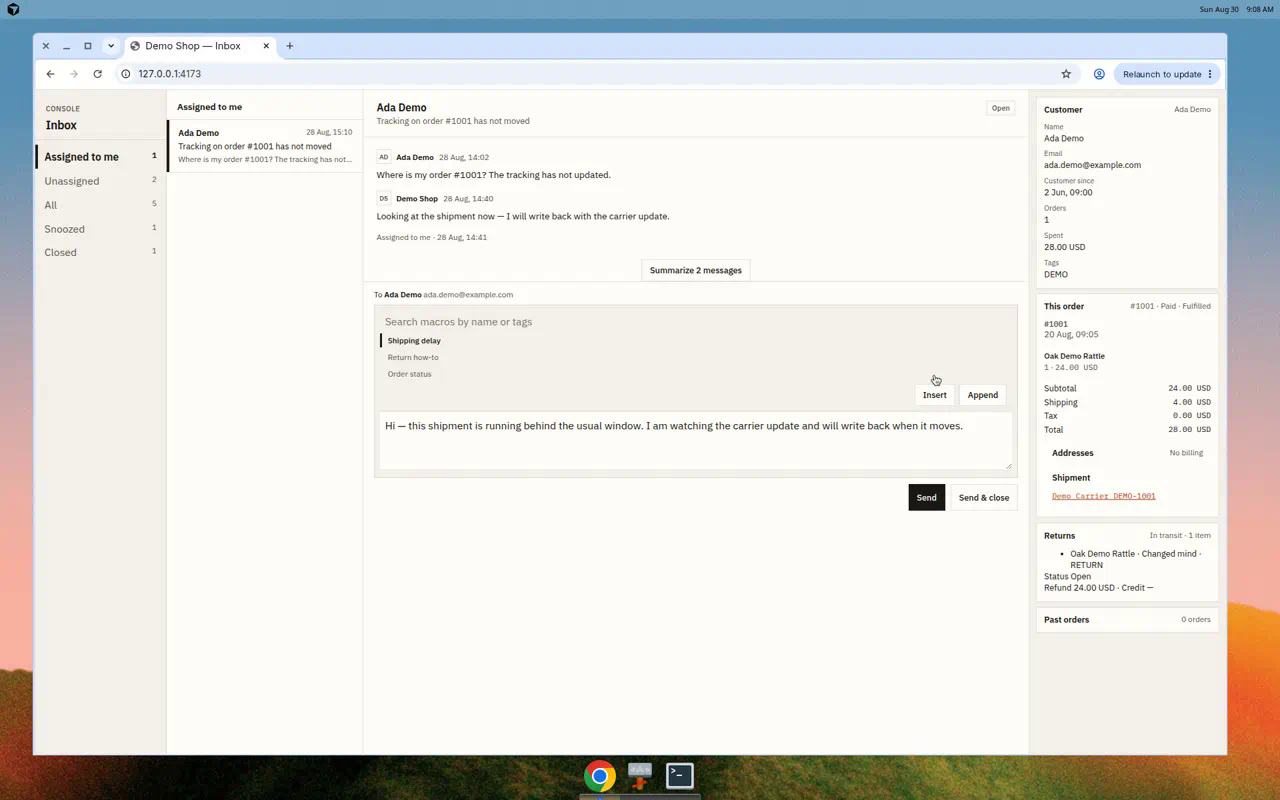
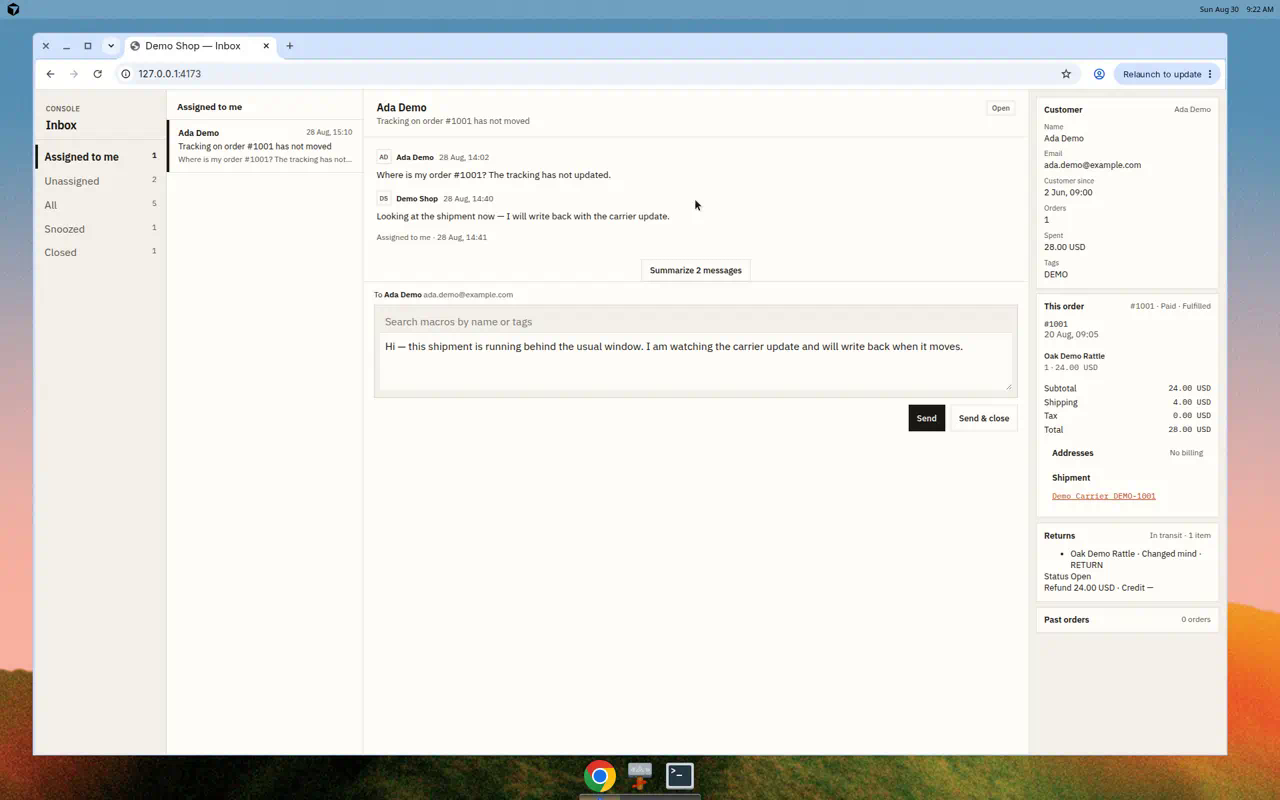
Close macro search after Replace and grey empty Send.
After Replace/Append the picker closes so the after-Insert shot is
the filled textarea, not an open list. Empty Send is grey/disabled
(is-disabled + test). Macro verb is Replace; draft-strip Insert stays.

Changed region(s): [[0.3125, 0.4688, 0.7812, 0.5625], [0.2812, 0.4062, 0.75, 0.4688], [0.6875, 0.5938, 0.7812, 0.6562]]

diff --git a/console-src/inbox/js/tissues/composer.js b/console-src/inbox/js/tissues/composer.js
@@ -20,7 +20,8 @@ export function composeMacroText(macro, currentBody = "", mode = "replace") {
  * Composer tissue.
  * In: `{ ticket, draft, summarize, macros, body }`
  * Out: body / insert / discard / send. AI strip and macros never Send.
- * Macro search lives inside the composer box. Insert replaces; Append adds.
+ * Macro search lives inside the composer box. Replace overwrites; Append adds.
+ * Draft-strip Insert stays named Insert.
  */
 export function createComposerTissue({ mailbox }) {
   let model = {
@@ -32,6 +33,7 @@ export function createComposerTissue({ mailbox }) {
     strip: "",
     query: "",
     selectedMacroId: "",
+    searchOpen: true,
   };
 
   function project(input) {
@@ -44,6 +46,7 @@ export function createComposerTissue({ mailbox }) {
       strip: input.strip ?? input.draft ?? "",
       query: input.query || "",
       selectedMacroId: input.selectedMacroId || "",
+      searchOpen: input.searchOpen ?? true,
     };
   }
 
@@ -102,25 +105,30 @@ export function createComposerTissue({ mailbox }) {
           </div>
         </div>`
       : "";
+    const idle = sendDisabled(next);
     const sendClose = hideSendAndClose(next)
       ? ""
-      : `<button type="button" class="btn-hairline" data-send-close ${sendDisabled(next) ? "disabled" : ""}>Send &amp; close</button>`;
+      : `<button type="button" class="btn-hairline${idle ? " is-disabled" : ""}" data-send-close ${idle ? "disabled" : ""}>Send &amp; close</button>`;
     const macroLocked = selected ? "" : "disabled";
+    const searchOpen = next.searchOpen !== false;
+    const picker = searchOpen
+      ? `<div class="macro-list" data-macro-list>${macroItems || `<p class="macro-empty">No macros match.</p>`}</div>
+        <div class="macro-actions">
+          <button type="button" class="btn-quiet" data-macro-insert ${macroLocked}>Replace</button>
+          <button type="button" class="btn-quiet" data-macro-append ${macroLocked}>Append</button>
+        </div>`
+      : "";
     return `<section class="composer" data-composer>
       ${peek}
       <div class="composer-to"><span>To</span> <strong>${esc(to.name)}</strong> <span class="mute">${esc(to.email)}</span></div>
-      <div class="composer-box">
+      <div class="composer-box" data-macro-open="${searchOpen ? "true" : "false"}">
         <input class="macro-search" data-macro-search type="search" placeholder="Search macros by name or tags" value="${esc(next.query)}" aria-label="Search macros">
-        <div class="macro-list" data-macro-list>${macroItems || `<p class="macro-empty">No macros match.</p>`}</div>
-        <div class="macro-actions">
-          <button type="button" class="btn-quiet" data-macro-insert ${macroLocked}>Insert</button>
-          <button type="button" class="btn-quiet" data-macro-append ${macroLocked}>Append</button>
-        </div>
+        ${picker}
         ${strip}
         <textarea data-body placeholder="Write the reply. The human always sends.">${esc(next.body)}</textarea>
       </div>
       <div class="composer-actions">
-        <button type="button" class="btn-ink btn-send" data-send ${sendDisabled(next) ? "disabled" : ""}>Send</button>
+        <button type="button" class="btn-ink btn-send${idle ? " is-disabled" : ""}" data-send ${idle ? "disabled" : ""}>Send</button>
         ${sendClose}
       </div>
     </section>`;
@@ -136,8 +144,14 @@ export function createComposerTissue({ mailbox }) {
     if (!macro) return;
     const text = composeMacroText(macro, model.body, mode);
     emitBody(text);
+    model = {
+      ...model,
+      body: text,
+      searchOpen: false,
+      query: "",
+      selectedMacroId: "",
+    };
     mailbox.publish(MAILBOX_TOPICS.COMPOSER_INSERT, { text, mode, macroId: macro.id });
-    model = { ...model, body: text };
   }
 
   function mount(el) {
@@ -145,7 +159,7 @@ export function createComposerTissue({ mailbox }) {
     el.oninput = (event) => {
       if (event.target.matches("[data-body]")) emitBody(event.target.value);
       if (event.target.matches("[data-macro-search]")) {
-        model = { ...model, query: event.target.value };
+        model = { ...model, query: event.target.value, searchOpen: true };
         const keep = event.target;
         const start = keep.selectionStart;
         el.innerHTML = render(model);
@@ -157,6 +171,13 @@ export function createComposerTissue({ mailbox }) {
       }
     };
     el.onclick = (event) => {
+      if (event.target.matches?.("[data-macro-search]") && model.searchOpen === false) {
+        model = { ...model, searchOpen: true };
+        el.innerHTML = render(model);
+        const again = el.querySelector("[data-macro-search]");
+        if (again) again.focus();
+        return;
+      }
       const row = event.target.closest("[data-macro]");
       if (row) {
         model = { ...model, selectedMacroId: row.dataset.macro };

diff --git a/console-src/inbox/test/inbox-organ.test.js b/console-src/inbox/test/inbox-organ.test.js
@@ -119,12 +119,31 @@ test("Send stays disabled until the body has text", async () => {
   const organ = createInboxOrgan({ viewId: "mine" });
   let snap = await organ.ready();
   assert.equal(snap.sendDisabled, true);
+  const emptySend = [...snap.html.matchAll(/<button\b[^>]*>/g)]
+    .map((match) => match[0])
+    .find((html) => /\bdata-send\b/.test(html) && !/\bdata-send-close\b/.test(html));
+  assert.ok(emptySend, "Send is present on an empty box");
+  assert.match(emptySend, /\bdisabled\b/);
+  assert.match(emptySend, /is-disabled/);
+  const css = readFileSync(join(here, "../styles.css"), "utf8");
+  assert.match(css, /\.btn-send:disabled[\s\S]*background:\s*var\(--ground\)/);
+  assert.match(css, /\.btn-send:disabled[\s\S]*color:\s*var\(--mute\)/);
   organ.setBody("   ");
   snap = organ.snapshot();
   assert.equal(snap.sendDisabled, true);
+  const blankSend = [...snap.html.matchAll(/<button\b[^>]*>/g)]
+    .map((match) => match[0])
+    .find((html) => /\bdata-send\b/.test(html) && !/\bdata-send-close\b/.test(html));
+  assert.match(blankSend, /\bdisabled\b/);
+  assert.match(blankSend, /is-disabled/);
   organ.setBody("Thanks Ada — checking the carrier now.");
   snap = organ.snapshot();
   assert.equal(snap.sendDisabled, false);
+  const readySend = [...snap.html.matchAll(/<button\b[^>]*>/g)]
+    .map((match) => match[0])
+    .find((html) => /\bdata-send\b/.test(html) && !/\bdata-send-close\b/.test(html));
+  assert.doesNotMatch(readySend, /\bdisabled\b/);
+  assert.doesNotMatch(readySend, /is-disabled/);
 });
 
 test("closed ticket keeps composer and hides Send & close", async () => {
@@ -270,6 +289,7 @@ test("macro search lives in the composer box and Insert fills the textarea", asy
   assert.match(snap.html, /data-macro-search/);
   assert.match(snap.html, /data-macro-list/);
   assert.match(snap.html, /data-macro-insert/);
+  assert.match(snap.html, />Replace</);
   assert.match(snap.html, /data-macro-append/);
   assert.match(snap.html, /Shipping delay/);
   assert.match(snap.html, /Return how-to/);
@@ -294,6 +314,14 @@ test("macro search lives in the composer box and Insert fills the textarea", asy
   assert.match(snap.html, /running behind the usual window/);
   assert.equal(snap.sendDisabled, false);
   assert.equal(snap.sent.length, 0);
+  assert.match(snap.html, /data-macro-open="false"/);
+  assert.doesNotMatch(snap.html, /data-macro-list/);
+  assert.doesNotMatch(snap.html, /data-macro-insert/);
+  assert.doesNotMatch(snap.html, />Replace</);
+  const filledSend = [...snap.html.matchAll(/<button\b[^>]*>/g)]
+    .map((match) => match[0])
+    .find((html) => /\bdata-send\b/.test(html) && !/\bdata-send-close\b/.test(html));
+  assert.doesNotMatch(filledSend, /\bdisabled\b/);
 
   organ.setBody("Hi Ada — looking now.");
   snap = await organ.applyMacro("order-status", "append");
@@ -325,6 +353,8 @@ test("composer macro Insert and Append never publish send", () => {
   assert.deepEqual(events.map((row) => row[0]), ["insert"]);
   assert.equal(events[0][1].mode, "replace");
   assert.equal(events[0][1].macroId, "shipping-delay");
+  composer.update({ searchOpen: true, selectedMacroId: "shipping-delay" });
+  composer.mount(el);
   el.onclick({ target: { closest: (sel) => (sel === "[data-macro-append]" ? {} : null) } });
   assert.deepEqual(events.map((row) => row[0]), ["insert", "insert"]);
   assert.equal(events[1][1].mode, "append");

diff --git a/console-src/inbox/js/inbox.js b/console-src/inbox/js/inbox.js
@@ -54,6 +54,7 @@ export function createInboxOrgan(opts = {}) {
   let macros = fixtureMacros;
   let macroQuery = "";
   let selectedMacroId = "";
+  let macrosOpen = true;
 
   function visibleTickets() {
     return catalog.filter((ticket) => ticketInView(ticket, viewId));
@@ -161,6 +162,7 @@ export function createInboxOrgan(opts = {}) {
       strip: discarded ? "" : strip,
       query: macroQuery,
       selectedMacroId,
+      searchOpen: macrosOpen,
     };
   }
 
@@ -204,6 +206,7 @@ export function createInboxOrgan(opts = {}) {
       macros: composerModel.macros,
       query: composerModel.query,
       selectedMacroId: composerModel.selectedMacroId,
+      searchOpen: composerModel.searchOpen,
     };
   }
 
@@ -261,6 +264,7 @@ export function createInboxOrgan(opts = {}) {
       summarizeText = "";
       discarded = false;
       selectedMacroId = "";
+      macrosOpen = true;
       ensureSelection();
       refreshRail().then(refreshComposer).then(() => refreshMacros(macroQuery)).then(paint);
     });
@@ -271,13 +275,18 @@ export function createInboxOrgan(opts = {}) {
       summarizeText = "";
       discarded = false;
       selectedMacroId = "";
+      macrosOpen = true;
       refreshRail().then(refreshComposer).then(() => refreshMacros(macroQuery)).then(paint);
     });
     mailbox.subscribe(MAILBOX_TOPICS.COMPOSER_BODY, ({ text }) => {
       body = text;
     });
     mailbox.subscribe(MAILBOX_TOPICS.COMPOSER_INSERT, (payload) => {
-      if (payload?.macroId) selectedMacroId = payload.macroId;
+      if (payload?.macroId) {
+        selectedMacroId = "";
+        macrosOpen = false;
+        macroQuery = "";
+      }
       if (payload?.text) body = payload.text;
       strip = "";
       discarded = true;
@@ -332,6 +341,7 @@ export function createInboxOrgan(opts = {}) {
       summarizeText = "";
       discarded = false;
       selectedMacroId = "";
+      macrosOpen = true;
       ensureSelection();
       return refreshRail().then(refreshComposer).then(() => refreshMacros(macroQuery));
     },
@@ -342,6 +352,7 @@ export function createInboxOrgan(opts = {}) {
       summarizeText = "";
       discarded = false;
       selectedMacroId = "";
+      macrosOpen = true;
       return refreshRail().then(refreshComposer).then(() => refreshMacros(macroQuery));
     },
     toggleRail(key) {
@@ -364,12 +375,15 @@ export function createInboxOrgan(opts = {}) {
       composerTissue.update(composerInput(selectedTicket()));
     },
     async searchMacros(query = "") {
+      macrosOpen = true;
       await refreshMacros(query);
       composerTissue.update(composerInput(selectedTicket()));
       return snapshot();
     },
     async applyMacro(macroId, mode = "replace") {
       selectedMacroId = macroId;
+      macrosOpen = false;
+      macroQuery = "";
       let text = "";
       if (typeof shop.applyMacro === "function") {
         try {

diff --git a/console-src/inbox/styles.css b/console-src/inbox/styles.css
@@ -237,6 +237,18 @@ button:focus-visible, input:focus-visible, textarea:focus-visible, a:focus-visib
   color: var(--ink);
 }
 .btn-send { min-height: 40px; }
+.btn-send:disabled,
+.btn-send.is-disabled {
+  background: var(--ground);
+  border-color: var(--line);
+  color: var(--mute);
+  opacity: 1;
+}
+.btn-hairline:disabled,
+.btn-hairline.is-disabled {
+  color: var(--mute);
+  opacity: 1;
+}
 
 .rail-inner { overflow: auto; padding: 10px; }
 .rail-card { background: var(--surface); border: 1px solid var(--line); margin-bottom: 8px; }

diff --git a/docs/tissues/inbox.md b/docs/tissues/inbox.md
@@ -59,7 +59,7 @@ Demo names only (Ada Demo, Casey Sandbox, Jordan Preview). No customer PII.
 
 - **In:** `{ ticket, draft, summarize, macros, body }`
 - **Out:** body / insert / discard / send
-- To is visible. Macro search lives **inside** the composer box (not a floating panel over the thread). Pick a row, then Insert (replace) or Append. Those fill the textarea via `helpdesk.apply_macro` and never Send.
+- To is visible. Macro search lives **inside** the composer box (not a floating panel over the thread). Pick a row, then Replace or Append. Those fill the textarea via `helpdesk.apply_macro` and never Send. Replace (not Insert) is the macro verb so it does not collide with the signed draft-strip Insert. After Replace/Append the picker closes.
 - AI draft is a strip **above** the textarea with Insert / Discard — never Send. The AI draft kicker is mute (accent is unread/error only). Draft text comes from `helpdesk.draft_reply`.
 - Summarize is a mute peek **above** the composer box, never a send. It does not enable Send by itself.
 - Send is ink fill (min-height 40px; 44px on coarse pointers) and disabled while the body is empty
@@ -115,7 +115,7 @@ Clerk DTO field names are locked. In for each: `{ shop, customerId? , orderId? }
   `POST /console/api/helpdesk` → `helpdesk.invoke()`
 - Composer uses the same client for `helpdesk.draft_reply`,
   `helpdesk.summarize_thread`, `helpdesk.search_macros`, and
-  `helpdesk.apply_macro`. Insert/Discard/Append never call send.
+  `helpdesk.apply_macro`. Draft-strip Insert/Discard and macro Replace/Append never call send.
 - Fallback: `console-src/inbox/js/shop/fixture-shop.js` when mint/Admin/HTTP
   is unavailable, or when the requested GID is only on the fixture catalog
 - Live Cute Things (`source=live`) remounts the inbox onto live GIDs. Empty
